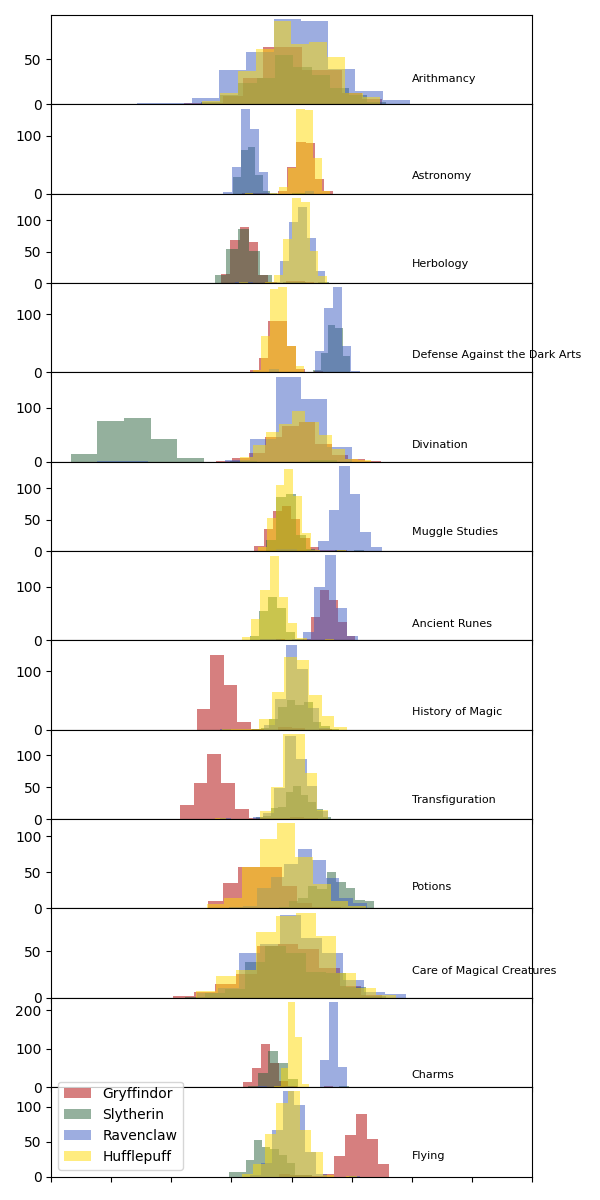
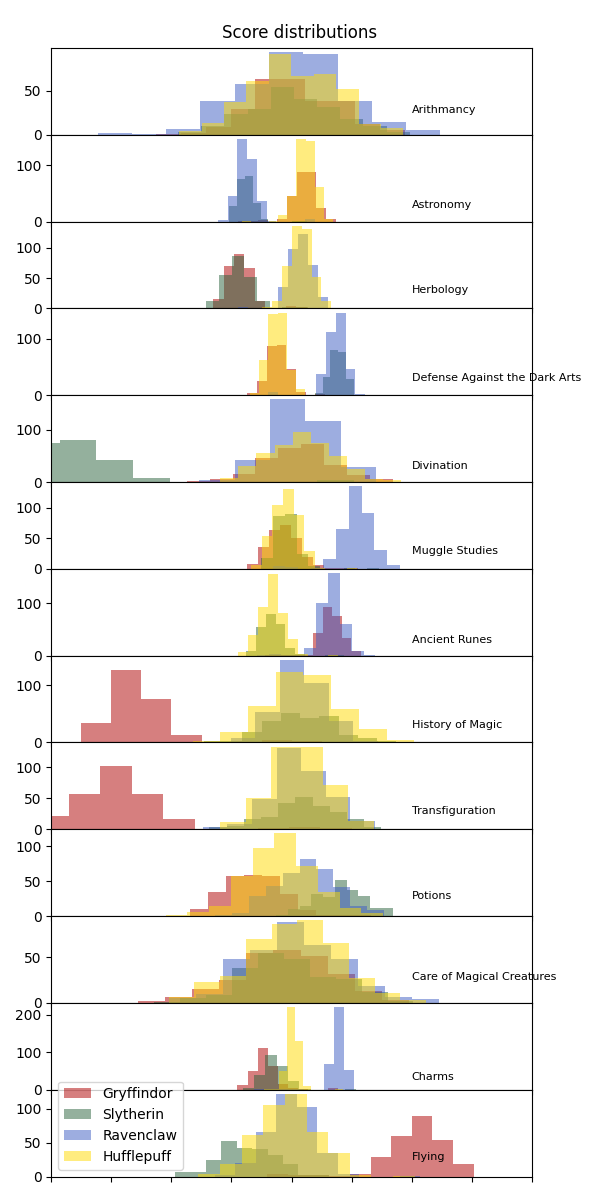
multithreading + feature selection + cleaning

diff --git a/logreg_train.py b/logreg_train.py
@@ -1,10 +1,37 @@
 #!/usr/bin/env python3
 
 import sys
+import time
 import json
 import pandas as pd
 import numpy as np
+from threading import Thread
 from data_processing import *
+
+
+
+class LogregThread(Thread):
+	def __init__(self, X, Y, iters, lRate, house, model, progress):
+		Thread.__init__(self)
+		self.X = X
+		self.Y = Y
+		self.iters = iters
+		self.lRate = lRate
+		self.house = house
+		self.model = model
+		self.progress = progress
+
+	def run(self):
+		m = len(self.Y)
+		for it in range(self.iters):
+			thetas = self.model["thetas"][self.house]
+			newThetas = []
+			for j in range(len(thetas)):
+				gradient = 1 / m * sum((sigmoid(np.dot(self.X[i],thetas)) - self.Y[i]) * self.X[i][j] for i in range(m))
+				newThetas.append(thetas[j] - self.lRate * gradient)
+			self.model["thetas"][self.house] = newThetas
+			self.progress[self.house] += 1
+
 
 
 def prepare_data(data, modelFtrs, house):
@@ -16,22 +43,11 @@ def prepare_data(data, modelFtrs, house):
 
 
 
-def logreg(X, Y, thetas, iters, lRate):
-	m = len(Y)
-	for it in range(iters):
-		newThetas = []
-		grads = []
-		for j in range(len(thetas)):
-			gradient = 1 / m * sum((sigmoid(np.dot(X[i],thetas)) - Y[i]) * X[i][j] for i in range(m))
-			grads.append(gradient)
-			newThetas.append(thetas[j] - lRate * gradient)
-		thetas = newThetas
-		# print(grads)
-	return thetas
-
-
-
 if __name__ == "__main__":
+	
+	learningRate = 0.1
+	iterations = 200
+	houses = ["Gryffindor","Slytherin","Ravenclaw","Hufflepuff"]
 
 	argc = len(sys.argv)
 	if argc != 2:
@@ -42,31 +58,54 @@ if __name__ == "__main__":
 		data = pd.read_csv(fileName, index_col="Index").dropna()
 	except Exception as e:
 		sys.exit(f"An error occured while reading the dataset. {str(e)}")
-
-	f = ["Astronomy", "Ancient Runes", "Herbology", "Charms"]
-	ftrsPerHouse = {
-		"Gryffindor": f,
-		"Slytherin": f + ["Divination"],
-		"Ravenclaw": f,
-		"Hufflepuff": f
-	}
-	l = ftrsPerHouse["Gryffindor"] + ftrsPerHouse["Slytherin"] + ftrsPerHouse["Ravenclaw"] + ftrsPerHouse["Hufflepuff"]
-	allFeatures = list(set(l))
-	ftrsPerHouse["all"] = allFeatures
-	learningRate = 0.1
-	iterations = 500
 	
-	scaler = DslrRobustScaler(data, percentiles=(20,80))
+	scaler = DslrRobustScaler(data)
 	scaledData = scaler.scale()
+
+	ftrsPerHouse = {
+		"Gryffindor": ["Astronomy", "Ancient Runes", "Herbology", "Charms", "Flying", "Transfiguration", "History of Magic"],
+		"Slytherin": ["Astronomy", "Ancient Runes", "Herbology", "Charms", "Divination"],
+		"Ravenclaw": ["Astronomy", "Ancient Runes", "Herbology", "Charms", "Muggle Studies"],
+		"Hufflepuff": ["Astronomy", "Ancient Runes", "Herbology", "Charms"]
+	}
+	lst = ftrsPerHouse["Gryffindor"] + ftrsPerHouse["Slytherin"] + ftrsPerHouse["Ravenclaw"] + ftrsPerHouse["Hufflepuff"]
+	allFeatures = list(set(lst))
+	ftrsPerHouse["all"] = allFeatures
 	
+	# Initialise the model and threads progress.
 	model = {"features": ftrsPerHouse, "scaling": {}, "thetas": {}}
-
+	progress = {}
+	for house in houses:
+		model["thetas"][house] = [0] * (len(ftrsPerHouse[house]) + 1)
+		progress[house] = 0
 	model["scaling"] = scaler.allScalingParams()
-
-	for house in ["Gryffindor","Slytherin","Ravenclaw","Hufflepuff"]:
+	
+	# Prepare the threads
+	print("Loading threads...")
+	threads = []
+	for house in houses:
 		X,Y = prepare_data(scaledData, ftrsPerHouse[house], house)
-		nbFtrs = len(ftrsPerHouse[house])
-		model["thetas"][house] = logreg(X, Y, [0]*(nbFtrs+1), iterations, learningRate)
+		th = LogregThread(X, Y, iterations, learningRate, house, model, progress)
+		threads.append(th)
+
+	# Launch threads:
+	for th in threads:
+		th.start()
+
+	# Progress bar
+	print("Training...")
+	iterTotal = 4 * iterations
+	width = 50
+	while any([th.is_alive() for th in threads]):
+		progTotal = sum(progress[h] for h in houses)
+		full = int(progTotal / iterTotal * width)
+		empty = width - full
+		sys.stdout.write(f"[{'='*full + ' '*empty}]")
+		sys.stdout.flush()
+		sys.stdout.write("\r")
+		time.sleep(1)
+	else:
+		print(f"[{'='*width}]\nTraining done !")
 
 	try:
 		with open("dslr_model.json", "w") as jsonFile:

diff --git a/data_processing.py b/data_processing.py
@@ -1,5 +1,5 @@
 import numpy as np
-from data_description import *
+from TinyStatistician import TinyStatistician
 
 
 
@@ -8,7 +8,19 @@ def sigmoid(x):
 
 
 
+def shortenName(name):
+	words = name.split()
+	if len(words) == 1:
+		return name[:7] + '.' if len(name) > 8 else name
+	if len(name) > 8:
+		return "".join([word[0] if word.lower() in ["the","of"] else word[0].upper() for word in words])
+	return name
+
+
+
 class DslrRobustScaler():
+
+	ts = TinyStatistician()
 
 	def __init__(self, data, percentiles=(25,75)):
 		self.data = data
@@ -17,22 +29,10 @@ class DslrRobustScaler():
 			if any([not isinstance(value, float) for value in data[feature]]):
 				continue
 			self.numericFeatures.append(feature)
-		self.percentiles = percentiles
-		self.medians = [median(data[feature]) for feature in self.numericFeatures]
-		self.ranges = [quantile(max(percentiles),100,data[feature]) - \
-		quantile(min(percentiles),100,data[feature]) for feature in self.numericFeatures]
-
-
-	def featureScalingParams(self, feature):
-		featureIndex = self.numericFeatures.index(feature)
-		return {"median":self.medians[featureIndex], "range":self.ranges[featureIndex]}
-
-
-	def allScalingParams(self):
-		model = {}
-		for i,feature in enumerate(self.numericFeatures):
-			model[feature] = {"median":self.medians[i], "range":self.ranges[i]}
-		return model
+		self.medians = [self.ts.median(list(data[feature])) for feature in self.numericFeatures]
+		self.ranges = [self.ts.percentile(list(data[feature]), max(percentiles)) -
+						self.ts.percentile(list(data[feature]), min(percentiles))
+						for feature in self.numericFeatures]
 
 
 	def scale(self):
@@ -40,6 +40,13 @@ class DslrRobustScaler():
 		for i,feature in enumerate(self.numericFeatures):
 			scaledData[feature] = scaledData[feature].apply(lambda x:(x - self.medians[i]) / self.ranges[i])
 		return scaledData
+
+
+	def allScalingParams(self):
+		model = {}
+		for i,feature in enumerate(self.numericFeatures):
+			model[feature] = {"median":self.medians[i], "range":self.ranges[i]}
+		return model
 
 
 	def scaleToModel(self, model):

diff --git a/scatter_plot.py b/scatter_plot.py
@@ -2,7 +2,6 @@
 
 import matplotlib.pyplot as plt
 import pandas as pd
-from data_description import *
 from data_processing import *
 
 
@@ -14,26 +13,17 @@ except:
     print("Error: could not read file")
     exit(1)
 
-scaler = DslrRobustScaler(data, percentiles=(20,80))
+scaler = DslrRobustScaler(data)
 scData = scaler.scale()
 colorFeature = scData['Hogwarts House'].map(colors)
 
-pltFeatures = [ft for ft in data.columns if ft not in\
-    ["First Name","Last Name","Birthday","Best Hand", "Hogwarts House"]]
-nbFtr = len(pltFeatures)
-
-fig = plt.figure(figsize=(16,12))
-gspec = fig.add_gridspec(nbFtr, nbFtr, hspace=0, wspace=0)
-axs = gspec.subplots()
-for y in range(nbFtr):
-    for x in range(nbFtr):
-        if x < y:
-            axs[y][x].scatter(scData[pltFeatures[x]], scData[pltFeatures[y]], marker='.', c=colorFeature, alpha=0.35)
-            axs[y][x].set(xlabel=shortenName(pltFeatures[x]), ylabel=shortenName(pltFeatures[y]))
-            axs[y][x].label_outer()
-        else:
-            axs[y][x].set_axis_off()
-
+fig = plt.figure(figsize=(9,7), num="dslr")
+plt.scatter(scData["Defense Against the Dark Arts"], scData["Astronomy"], marker='.', c=colorFeature, alpha=0.35)
+plt.xlabel("Defense Against the Dark Arts")
+plt.ylabel("Astronomy")
+fig.suptitle("Similar features")
 fig.tight_layout()
+
+
 plt.savefig('scatter_plot.png')
 plt.show()

diff --git a/histogram.py b/histogram.py
@@ -4,7 +4,6 @@ import matplotlib.pyplot as plt
 from matplotlib import rc as mplrc
 import pandas as pd
 import numpy as np
-from data_description import *
 from data_processing import *
 
 colors = {"Gryffindor": "#AE0001", "Slytherin": "#2A623D",
@@ -16,7 +15,7 @@ except:
     print("Error: could not read file")
     exit(1)
 
-scaler = DslrRobustScaler(data, percentiles=(20, 80))
+scaler = DslrRobustScaler(data)
 scData = scaler.scale()
 colorFeature = scData['Hogwarts House'].map(colors)
 
@@ -24,7 +23,7 @@ pltFeatures = [ft for ft in data.columns if ft not in
                ["First Name", "Last Name", "Birthday", "Best Hand", "Hogwarts House"]]
 nbFtr = len(pltFeatures)
 
-fig = plt.figure(figsize=(6, 12))
+fig = plt.figure(figsize=(6, 12), num="dslr")
 gspec = fig.add_gridspec(nbFtr, 1, hspace=0, wspace=0)
 axs = gspec.subplots()
 for x in range(nbFtr):
@@ -43,6 +42,7 @@ for x in range(nbFtr):
         axs[x].set_xticklabels([])
 
 
+fig.suptitle("Score distributions")
 fig.tight_layout()
 plt.legend(["Gryffindor", "Slytherin", "Ravenclaw", "Hufflepuff"],
            loc='lower left')

diff --git a/pair_plot.py b/pair_plot.py
@@ -2,7 +2,6 @@
 
 import matplotlib.pyplot as plt
 import pandas as pd
-from data_description import *
 from data_processing import *
 
 
@@ -14,7 +13,7 @@ except:
     print("Error: could not read file")
     exit(1)
 
-scaler = DslrRobustScaler(data, percentiles=(20,80))
+scaler = DslrRobustScaler(data)
 scData = scaler.scale()
 colorFeature = scData['Hogwarts House'].map(colors)
 
@@ -22,7 +21,7 @@ pltFeatures = [ft for ft in data.columns if ft not in\
 	["First Name","Last Name","Birthday","Best Hand", "Hogwarts House"]]
 nbFtr = len(pltFeatures)
 
-fig = plt.figure(figsize=(16,12))
+fig = plt.figure(figsize=(16,12), num="dslr")
 gspec = fig.add_gridspec(nbFtr, nbFtr, hspace=0, wspace=0)
 axs = gspec.subplots()
 for y in range(nbFtr):
@@ -40,5 +39,7 @@ for y in range(nbFtr):
 		axs[y][x].set(xlabel=shortenName(pltFeatures[x]), ylabel=shortenName(pltFeatures[y]))
 		axs[y][x].label_outer()
 
+fig.suptitle("Pick your features")
 fig.tight_layout()
+plt.savefig('pair_plot.png')
 plt.show()

diff --git a/logreg_predict.py b/logreg_predict.py
@@ -1,5 +1,6 @@
 #!/usr/bin/env python3
 
+import sys
 import json
 import pandas as pd
 import numpy as np
@@ -33,7 +34,7 @@ if __name__ == "__main__":
         missing = data[feature].isnull()
         data[feature] = [model["scaling"][feature]["median"] if missing[i] else x for i, x in enumerate(data[feature])]
 
-    scaler = DslrRobustScaler(data, percentiles=(20,80))
+    scaler = DslrRobustScaler(data)
     scaledData = scaler.scaleToModel(model)
     
     predictions = []

diff --git a/TinyStatistician.py b/TinyStatistician.py
@@ -65,7 +65,7 @@ class TinyStatistician:
         y.sort()
         if p == 0:
             return float(y[0])
-        res = min(0, int(math.ceil(p * (len(y)) / 100)) - 1)
+        res = max(0, int(math.ceil(p * (len(y)) / 100)) - 1)
         return float(y[int(res)])
 
     def var(self, x):
